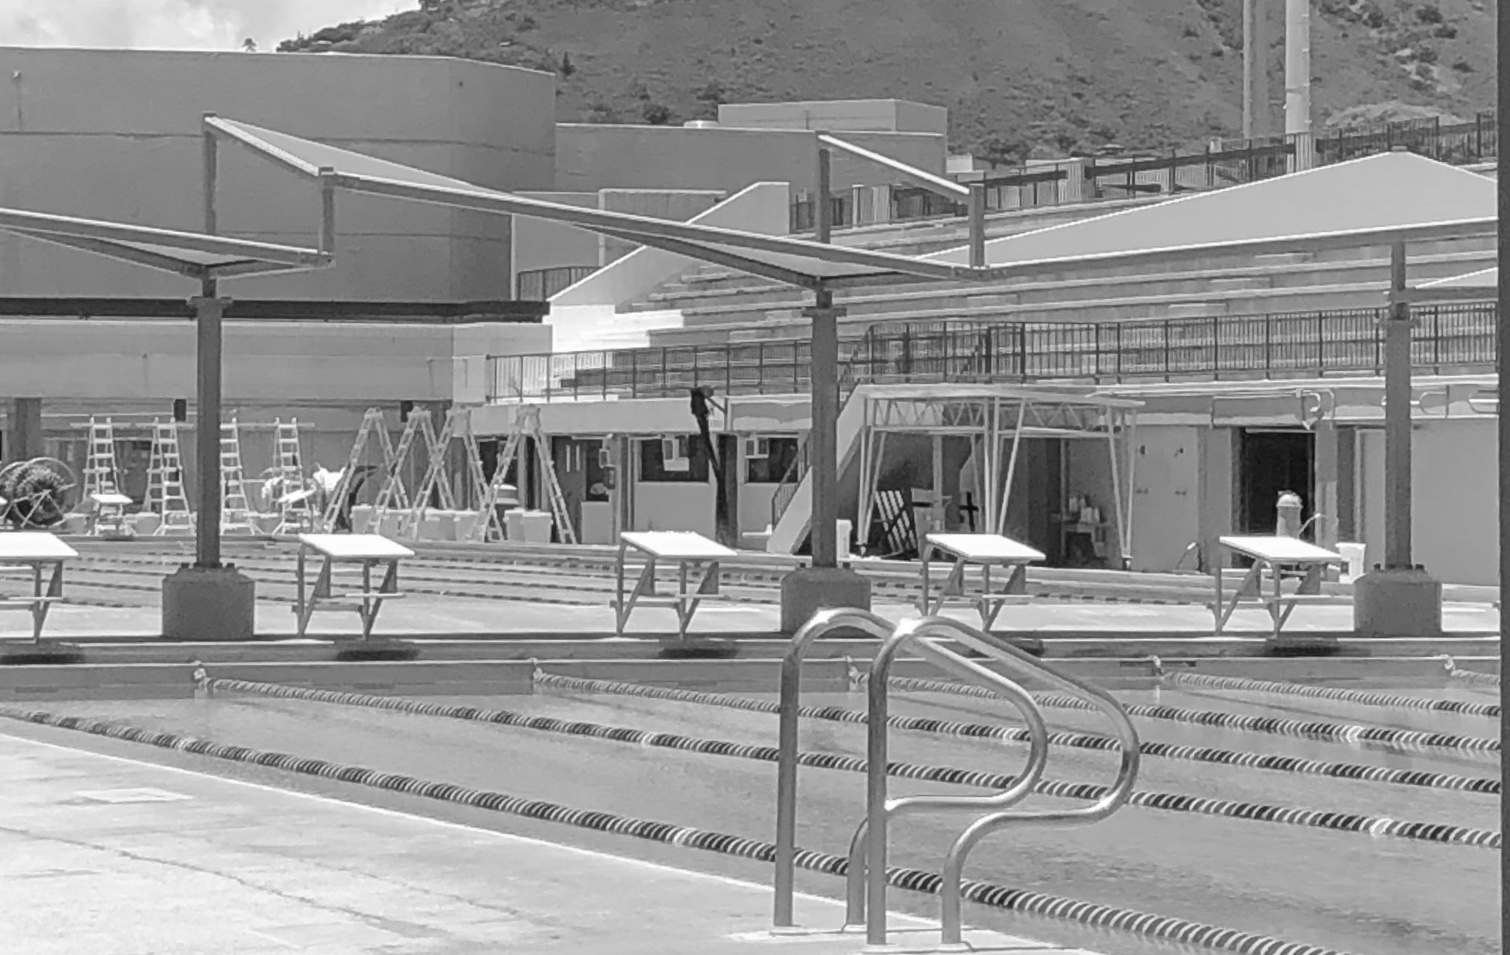
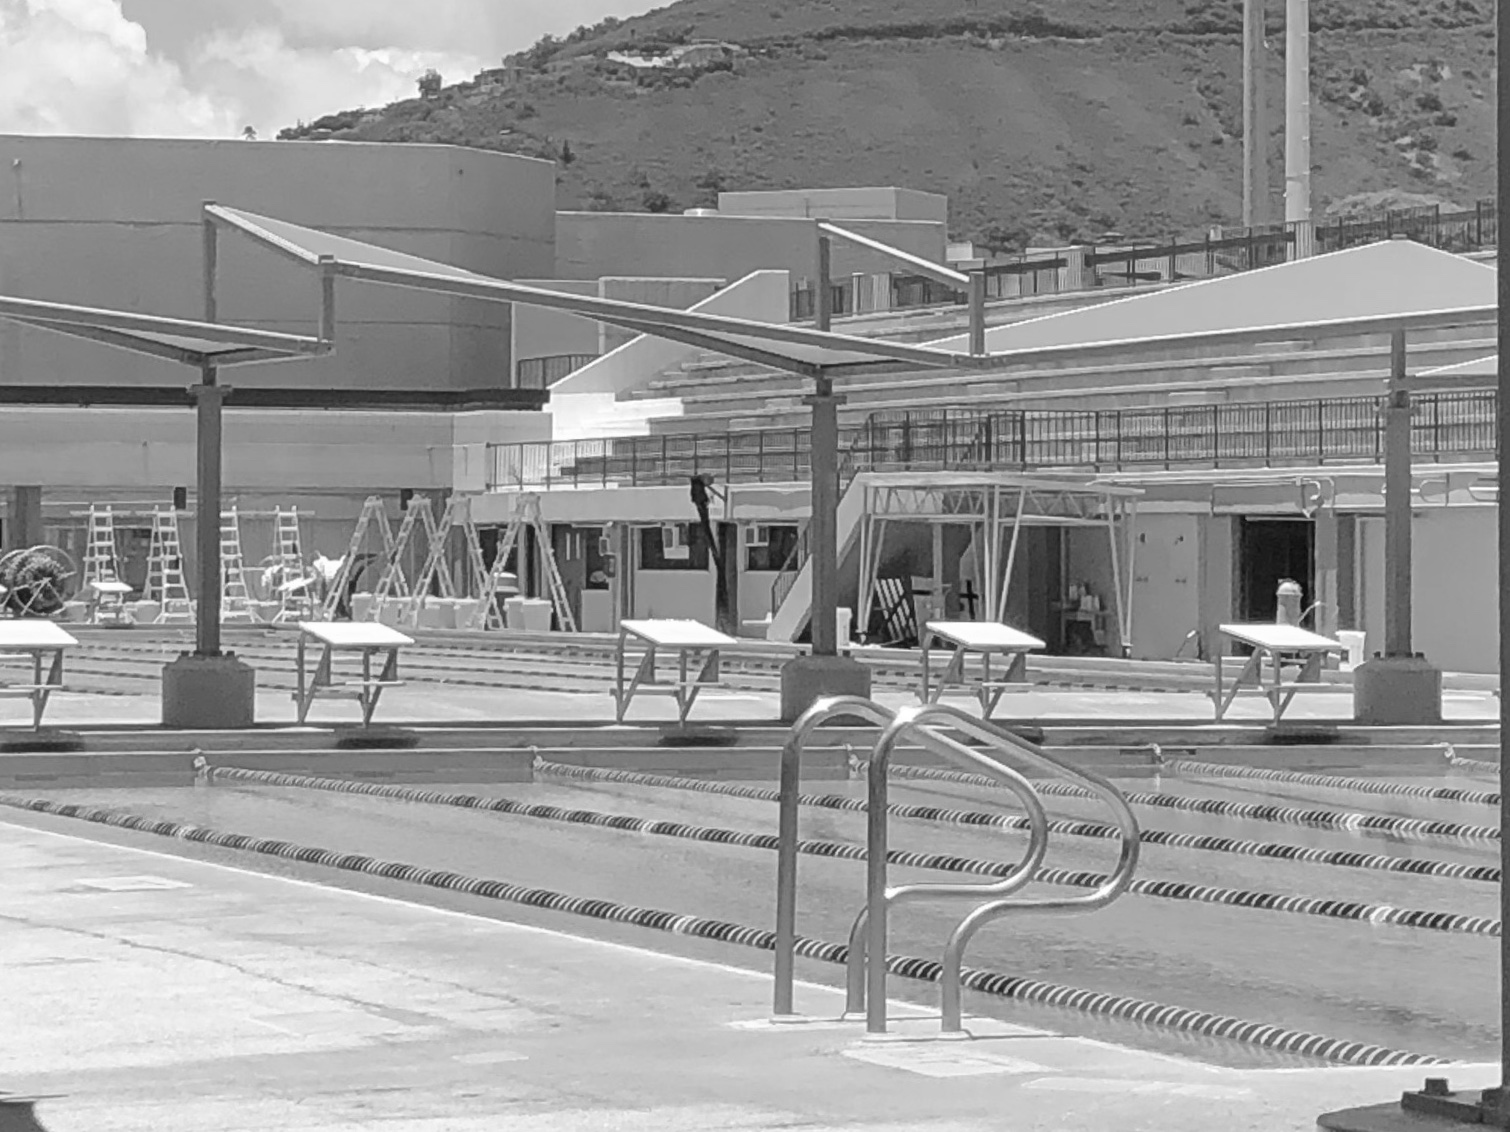
Updated Images
- fixed format of new images
- added new images

diff --git a/app/imports/ui/pages/Landing.jsx b/app/imports/ui/pages/Landing.jsx
@@ -9,7 +9,7 @@ class Landing extends React.Component {
         /* Outside to maintain consistent borders. */
         <Container className = 'landingPage'>
           <Container verticalAlign='middle' textAlign='center'>
-            <Image className="landing" fluid src='/images/landing_page_top.PNG'/>
+            <Image className="landing" fluid src='/images/Landing1.JPG'/>
           </Container>
           <Header className = 'landingPage' textAlign='centered' as={'h1'}>
             Match based on what you are looking for!</Header>
@@ -18,7 +18,7 @@ class Landing extends React.Component {
               <Grid.Column>
                 <Reveal animated='move left' instant>
                   <Reveal.Content visible>
-                    <Image fluid src='/images/two_running.png'/>
+                    <Image fluid src='/images/Landing2.png'/>
                   </Reveal.Content>
                   <Reveal.Content hidden>
                     <br/>
@@ -35,22 +35,15 @@ class Landing extends React.Component {
                 </Reveal>
               </Grid.Column>
               <Grid.Column>
-                <Reveal animated='fade'>
-                  <Reveal.Content visible>
-                    <Image fluid src='/images/two_pushups.png'/>
-                  </Reveal.Content>
-                  <Reveal.Content hidden>
                     <br/>
                     <Header className = 'landingPage' textAlign='centered' as={'h1'}>
                       Don&apos;t get intimidated, match with someone at your level.
                     </Header>
-                  </Reveal.Content>
-                </Reveal>
               </Grid.Column>
               <Grid.Column>
                 <Reveal animated='move right' instant>
                   <Reveal.Content visible>
-                    <Image fluid src='/images/two_machines.png'/>
+                    <Image fluid src='/images/Landing3.PNG'/>
                   </Reveal.Content>
                   <Reveal.Content hidden>
                     <br/>
@@ -66,10 +59,7 @@ class Landing extends React.Component {
             Join today and work towards your better self!</Header>
           <Container className='landing_bottom_image'>
             <Segment basic floated='right' compact textAlign='center'>
-              <Header className = 'landingPage' textAlign='center' as={'h1'}>
-                <br/>Match With <br/> Someone today!<br/>
-              </Header>
-              <Button as={Link} to="/signup" animated size="large">
+              <Button as={Link} to="/signup" animated className="JoinButton" size="large">
                 <Button.Content visible>Join Now</Button.Content>
                 <Button.Content hidden>
                   <Icon name='arrow right'/>

diff --git a/app/imports/ui/pages/UserLanding.jsx b/app/imports/ui/pages/UserLanding.jsx
@@ -13,7 +13,14 @@ class UserLanding extends React.Component {
     return (
         <div className="aboutBackground">
           <Container>
-            <Image fluid centered src="/images/UserLanding1.JPG"/>
+            <Container id='user_landing_top'>
+              <Button as={Link} to="/profile" animated className="editProfile" size="huge" centered>
+                <Button.Content visible>Edit Profile</Button.Content>
+                <Button.Content hidden>
+                  <Icon name='arrow right'/>
+                </Button.Content>
+              </Button>
+            </Container>
             <Divider horizontal>
               <Header as='h1' textAlign='center'>Upcoming Events</Header>
             </Divider>
@@ -41,14 +48,14 @@ class UserLanding extends React.Component {
                 <Grid.Column width={8} textAlign='center'>
                   <Reveal animated='move left' instant>
                     <Reveal.Content visible>
-                      <Image fluid src="/images/UserLanding7.png"/>
+                      <Image fluid src="/images/UserLanding3_1.JPG"/>
                     </Reveal.Content>
                     <Reveal.Content hidden>
                       <Header as='h1'>Schedule A New Event</Header>
                       <Header as='h3'>5 Easy Steps!</Header>
                       <br/>
                       <Grid.Row>
-                        <List as='h3' size='huge'>
+                        <List as='h3' size='large'>
                           <List.Item>
                             <Icon name='calendar'/>
                             Set Date And Time
@@ -88,7 +95,7 @@ class UserLanding extends React.Component {
                 <Grid.Column textAlign='center' width={8}>
                   <Reveal animated='move right' instant>
                     <Reveal.Content visible>
-                      <Image src="/images/UserLanding5.png" fluid/>
+                      <Image src="/images/UserLanding4.JPG" fluid/>
                     </Reveal.Content>
                     <Reveal.Content hidden>
                       <Header as='h1'>Keep up with your friends</Header>

diff --git a/app/imports/ui/pages/About.jsx b/app/imports/ui/pages/About.jsx
@@ -58,10 +58,11 @@ class About extends React.Component {
     return (
         <div className="aboutBackground">
         <Container>
-          <Image centered src="/images/topImage4.JPG" fluid/>
-          <Grid padded>
+          <Image centered src="/images/About1.JPG" fluid/>
+          <Grid>
             <Grid.Row>
               <Grid.Column textAlign='center' width={8}>
+                <br/>
                 <Header as='h3' size='huge' style={{ color: '#6D9B7C' }}>
                   How Fitness Finder Works
                 </Header>
@@ -95,14 +96,16 @@ class About extends React.Component {
                 </Grid.Row>
               </Grid.Column>
               <Grid.Column width={8}>
-              <Image src="/images/about1.png" fluid/>
+                <br/>
+              <Image src="/images/About2.png" fluid/>
             </Grid.Column>
             </Grid.Row>
           <Grid.Row>
             <Grid.Column width={8}>
-              <Image src="/images/about2.jpg" fluid/>
+              <Image src="/images/About3.png" fluid/>
             </Grid.Column>
             <Grid.Column textAlign='center' width={8}>
+              <br/>
               <Header as='h3' size='huge' style={{ color: '#6D9B7C' }}>
                 Who Are We
               </Header>
@@ -114,6 +117,7 @@ class About extends React.Component {
           </Grid.Row>
             <Grid.Row>
               <Grid.Column textAlign='center' width={8}>
+                <br/>
                 <Header as='h3' size='huge' style={{ color: '#6D9B7C' }}>
                   Why We Matter
                 </Header>
@@ -123,7 +127,7 @@ class About extends React.Component {
                 </Header>
               </Grid.Column>
               <Grid.Column width={8}>
-                <Image src="/images/about3.png" fluid/>
+                <Image src="/images/About4.png" fluid/>
               </Grid.Column>
             </Grid.Row>
             <div className="joinNow">

diff --git a/app/client/style.css b/app/client/style.css
@@ -7,15 +7,31 @@
 }
 
 .landing_bottom_image {
-  background-image: url("/images/bottom_landing_page.JPG");
+  background-image: url("/images/Landing6.JPG");
   background-size: cover;
   width: 100%;
-  height: 800px;
-  padding-top: 10px;
+  height: 500px;
+  display: flex;
+  padding-top: 380px;
+  padding-right: 463px;
+  align-content: center;
+  align-items: center;
+  flex-wrap: wrap;
+  position: relative;
+  justify-content: center;
 }
 
 .landingPage {
-  color: #6D9B7C !important;
+   color: #6D9B7C !important;
+ }
+/* Join button for LandingPage */
+.JoinButton{
+  display: flex;
+  justify-content: center;
+  align-items: center;
+  align-content: center;
+  flex-wrap: wrap;
+
 }
 /* For landing page. */
 
@@ -108,12 +124,12 @@ tbody {
 
 /* Userlanding page */
 #user_landing_middle {
-  background-image: url("/images/UserLanding2.JPG");
+  background-image: url("/images/UserLanding2_1.png");
   background-size: cover;
   width: 100%;
-  height: 600px;
+  height: 420px;
   display: flex;
-  padding-top: 150px;
+  padding-top: 270px;
   align-content: center;
   align-items: center;
   flex-wrap: wrap;
@@ -204,4 +220,28 @@ a.profLink {
 
 .feedU{
   background-color: #6D9B7C!important;
+}
+
+/* Userlanding page */
+#user_landing_top {
+  background-image: url("/images/UserLanding1_2.png");
+  background-size: cover;
+  width: 100%;
+  height: 350px;
+  display: flex;
+  padding-top: 240px;
+  align-content: center;
+  align-items: center;
+  flex-wrap: wrap;
+  position: relative;
+  justify-content: center;
+}
+
+/* Userlanding button for match */
+.matchButton{
+  display: flex;
+  justify-content: center;
+  align-items: center;
+  align-content: center;
+  flex-wrap: wrap;
 }

diff --git a/app/imports/ui/pages/Signup.jsx b/app/imports/ui/pages/Signup.jsx
@@ -60,7 +60,7 @@ class Signup extends React.Component {
         <Container>
           <Grid textAlign="center" verticalAlign="middle" centered columns={2}>
             <Grid.Column>
-              <Image style={signupStyle} size='huge' centered src="/images/signup.jpg"/>
+              <Image style={signupStyle} size='huge' centered src="/images/SignUp.png"/>
               <Header as="h3" textAlign="center">
                 Sign-up and start connecting with other Manoa students today!
               </Header>

diff --git a/app/imports/ui/pages/Signin.jsx b/app/imports/ui/pages/Signin.jsx
@@ -45,7 +45,7 @@ export default class Signin extends React.Component {
         <Container>
           <Grid textAlign="center" verticalAlign="middle" centered columns={2}>
             <Grid.Column>
-              <Image src="/images/Signup.png" size='massive' />
+              <Image src="/images/SignIn.JPG"/>
             </Grid.Column>
             <Divider hidden vertical/>
             <Grid.Column>
